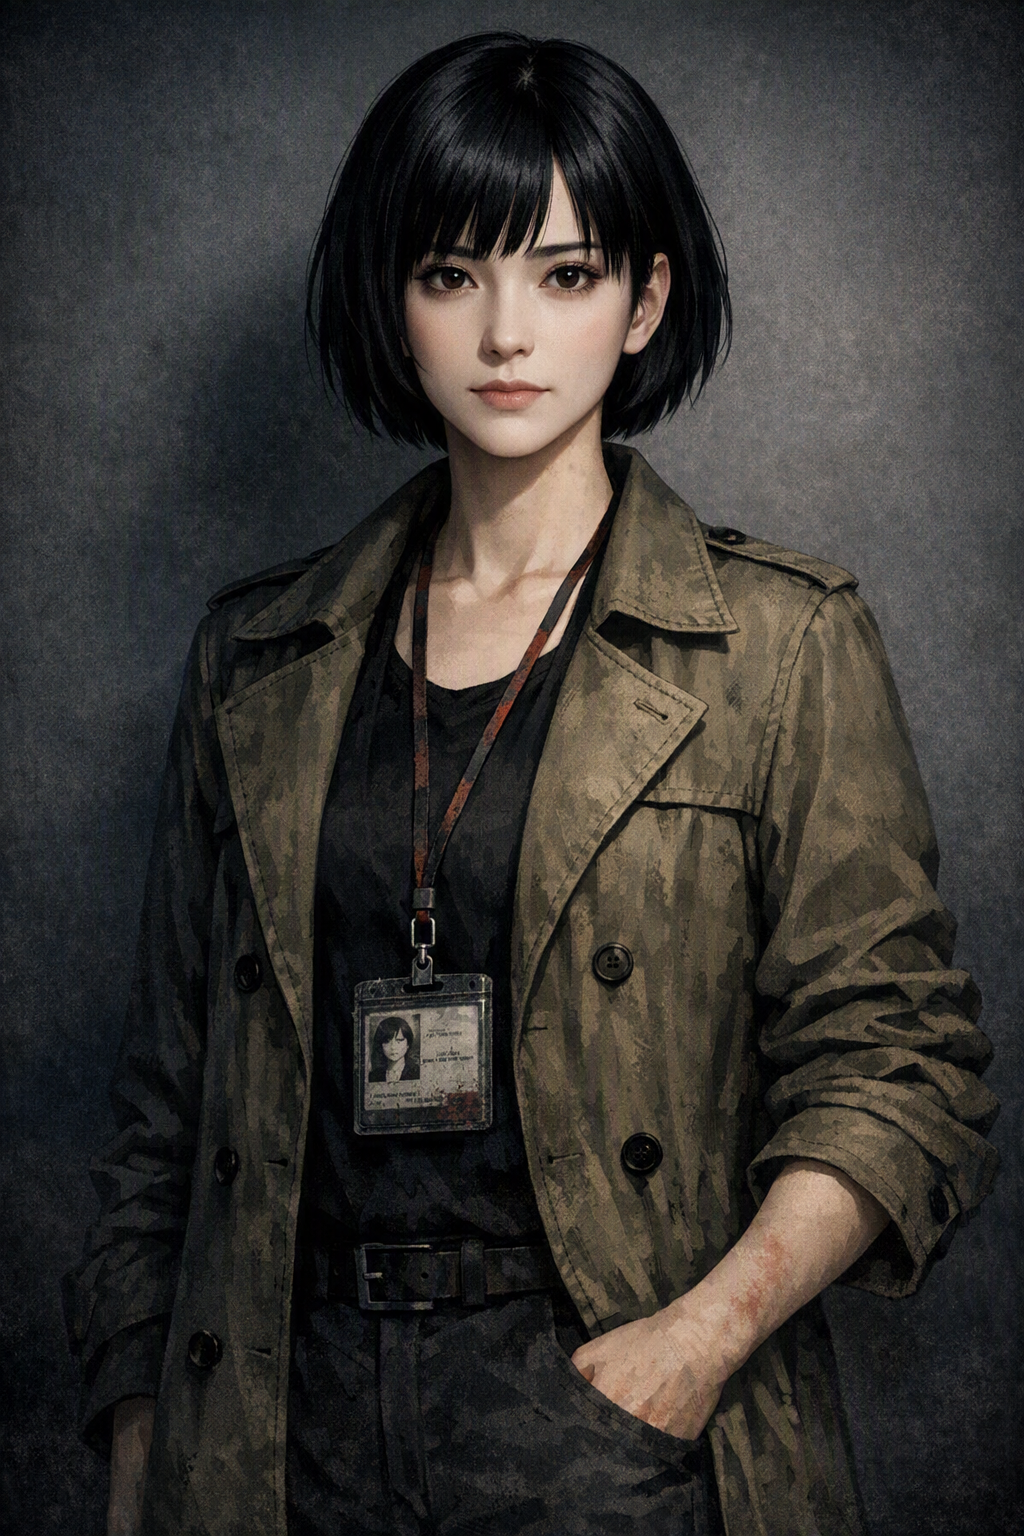
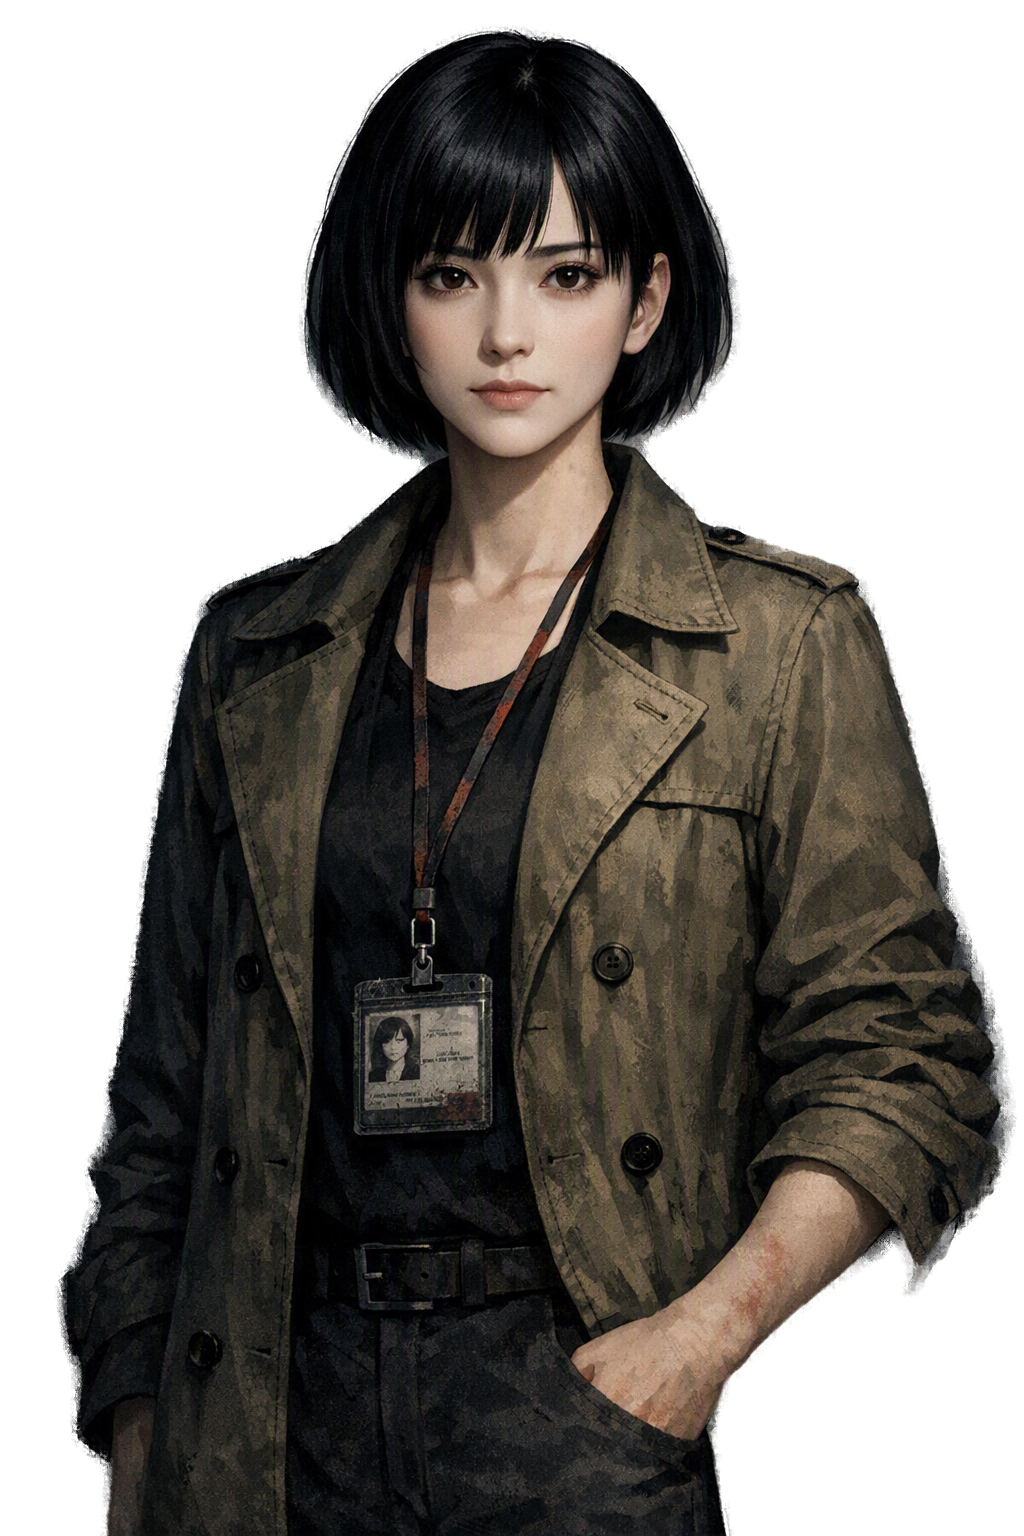
fix: CASE-002 캐릭터 투명배경 교체 및 R-07 흔적 단서 보강, OG 공유 이미지 교체
- CASE-002 캐릭터 스프라이트 10장 전부 투명 배경 버전으로 교체
  (배경에 사각 박스가 비치던 문제 해결)
- 3장 책상에 001 신문 스크랩 사본(newspaper_clipping_copy) 아이템 추가 —
  001 세이브 유무에 따라 다른 반응 대사, 약병과 나란히 놓여 001 흔적이
  한 곳에 모이는 구성
- R-11이 001을 직접 겪은 것처럼 말하는 대사 3곳을 "파일/기록에서 읽었다"는
  간접 화법으로 정정(001 사건을 실제로 경험한 사람은 R-07이지 R-11이 아님)
- 약병/신문 스크랩에 002 전용 신규 단서 대사 추가 및 관련 수사노트 문구 보강
  (재고 수량과 사라진 사번 개수의 상관관계, 병원 폐쇄 시기와 탑 가동 시기 일치)
- Story Archive 인덱스 페이지 OG 공유 메타 태그를 001 전용 문구에서
  시리즈 전체를 아우르는 문구/전용 썸네일로 교체

diff --git a/games/story-archive/cases/case002/scene-data.js b/games/story-archive/cases/case002/scene-data.js
@@ -19,12 +19,13 @@ window.CASE_DATA = {
     "broadcast_logs": { "image": "assets/items/broadcast-logs.png", "label": "방송 로그 사본" },
     "r03_journal": { "image": "assets/items/r03-journal-open.png", "label": "R-03의 개인 기록물" },
     "jamming_device": { "image": "assets/items/jamming-device.png", "label": "방해 장치" },
-    "pill_bottle": { "image": "assets/items/pill-bottle.png", "label": "라벨 없는 약병" }
+    "pill_bottle": { "image": "assets/items/pill-bottle.png", "label": "라벨 없는 약병" },
+    "newspaper_clipping_copy": { "image": "assets/items/newspaper-clipping-copy.png", "label": "신문 스크랩 사본" }
   },
 
   "notes": {
     "symbol_rubbing": {
-      "baseNote": "누군가 남긴 표식을 종이에 문질러 뜬 것. 001의 지하실에서 봤던 그 별 모양과 정확히 같다."
+      "baseNote": "누군가 남긴 표식을 종이에 문질러 뜬 것. 001 사건 기록에 남아있는 그 별 모양과 정확히 같다."
     },
     "broadcast_logs": {
       "baseNote": "정기 점검 기록 사본 4부. 셋은 같은 날짜, 하나만 삼 주 전 — 그리고 표현도 미묘하게 다르다."
@@ -40,9 +41,12 @@ window.CASE_DATA = {
       "updates": [
         {
           "condition": { "flag": "chapter3_entered_case002" },
-          "text": "라벨 없는 약병. 001에서도, 002에서도 나타났다. 우연이라기엔 너무 정확히 반복된다."
+          "text": "라벨 없는 약병. 001에서도, 002에서도 나타났다. R-03의 메모에 따르면 재고 수량이 사라진 사번 개수와 정확히 맞물려 줄어들고 있다 — 001의 '절대 재고 확인 금지' 경고문이 여기서 진짜 의미를 갖는다."
         }
       ]
+    },
+    "newspaper_clipping_copy": {
+      "baseNote": "빛바랜 신문 스크랩 사본. R-03이 여백에 날짜를 동그라미 쳐뒀다 — 병원이 문 닫은 시기와, 이 탑이 가동을 시작한 시기가 겹친다는 뜻."
     }
   },
 
@@ -63,7 +67,6 @@ window.CASE_DATA = {
         { "speaker": "관리자", "text": "새 임무입니다. CASE-001 종결 보고서, 열람 권한 드릴게요." },
         { "speaker": "내레이션", "text": "파일을 넘긴다. R-07. 실종, 수사 종결. 그리고 그 끝에 적힌 사번 하나." },
         { "speaker": "내레이션", "text": "R-03." },
-        { "character": "{gender}-neutral", "speaker": "조사관(나)", "text": "(혼잣말) ...내가 겪은 일도 아닌데, 왜 이렇게 익숙하지." },
         { "speaker": "관리자", "text": "신호 발신지 — 산속 버려진 중계탑입니다." },
         { "character": "{gender}-neutral", "speaker": "조사관(나)", "text": "(혼잣말) ...이번엔 처음부터 의심하고 시작하자." },
         { "speaker": "", "text": "[CASE-002: 기음 (거짓된 복음)]", "effect": "decode" }
@@ -78,7 +81,7 @@ window.CASE_DATA = {
       "lines": [
         { "speaker": "내레이션", "text": "산길을 오른다. 빗줄기가 거세다. 나무 사이로 낡은 철탑이 보인다." },
         { "speaker": "관리자", "text": "관리자입니다. 신호 확인. 목적지는 이 앞 중계탑입니다." },
-        { "character": "{gender}-neutral", "speaker": "조사관(나)", "text": "(혼잣말) ...목소리가 달라졌다. 아니, 같은 사람이 아닌 건가." },
+        { "character": "{gender}-neutral", "speaker": "조사관(나)", "text": "(혼잣말) ...파일에서 읽었던 인상이랑 다르다. 이 목소리, 같은 사람이 맞나." },
         { "speaker": "관리자", "text": "같은 역할을 맡고 있을 뿐입니다. 개인적인 질문은 나중에 하시죠." },
         { "character": "{gender}-neutral", "speaker": "조사관(나)", "text": "(혼잣말) ...'역할'이라. 그럼 나도 그런 건가." },
         { "speaker": "내레이션", "text": "외벽을 따라 걷다, 정문 대신 반쯤 뜯긴 환기구를 발견한다." }
@@ -143,7 +146,7 @@ window.CASE_DATA = {
           "itemImage": "assets/items/symbol-rubbing.png",
           "itemLabel": "낙인 탁본"
         },
-        { "character": "{gender}-neutral", "speaker": "조사관(나)", "text": "(혼잣말) ...이 표시, 001 지하실에서 봤던 그 별 모양이랑 정확히 같다." },
+        { "character": "{gender}-neutral", "speaker": "조사관(나)", "text": "(혼잣말) ...이 표시, 001 파일 사진에 있던 그 별 모양이랑 정확히 같다." },
         { "character": "{gender}-neutral", "speaker": "조사관(나)", "text": "(혼잣말) 그때도 우연이 아니라더니 — 여기까지 이어져 있었나." },
         { "speaker": "관리자", "text": "오래된 낙서예요. 안으로 들어가시죠." },
         { "character": "{gender}-neutral", "speaker": "조사관(나)", "text": "(혼잣말) ...1, 9, 3. 더하면 13이잖아." },
@@ -350,7 +353,7 @@ window.CASE_DATA = {
           "addItem": "pill_bottle"
         },
         {
-          "character": "{gender}-neutral", "speaker": "조사관(나)", "text": "(혼잣말) ...이 약, 001 병원 조사 때 봤던 그 라벨 없는 약병이다. 똑같은 성분이야.",
+          "character": "{gender}-neutral", "speaker": "조사관(나)", "text": "(혼잣말) ...이 약, 001 파일에 사진으로 남아있던 그 약병이랑 똑같이 생겼다.",
           "condition": { "hasCase001Save": true }
         },
         {
@@ -361,6 +364,30 @@ window.CASE_DATA = {
         { "speaker": "내레이션", "text": "약병 옆, 찢어진 신분증 조각. 사번 앞자리 \"03\"만 겨우 보인다." },
         { "character": "{gender}-neutral", "speaker": "조사관(나)", "text": "(혼잣말) ...R-07도 그랬다. 자기 사번을 뒤에 붙이는 버릇. 코드마다, 자물쇠마다." },
         { "character": "{gender}-neutral", "speaker": "조사관(나)", "text": "(혼잣말) ...R-03도 같은 버릇이었다면. 03, 그리고 사방에 널린 47." },
+        {
+          "speaker": "내레이션", "text": "약병 옆, 빛바랜 신문 스크랩 사본 한 장이 클립으로 고정되어 있다.",
+          "addItem": "newspaper_clipping_copy",
+          "itemImage": "assets/items/newspaper-clipping-copy.png",
+          "itemLabel": "신문 스크랩 사본"
+        },
+        {
+          "speaker": "내레이션", "text": "스크랩 여백에, R-03의 필체로 날짜 하나가 동그라미 쳐져 있다 — 이 중계탑이 가동을 시작한 날짜와 같다."
+        },
+        {
+          "character": "{gender}-neutral", "speaker": "조사관(나)",
+          "text": "(혼잣말) ...이거, 001에서 봤던 그 병원 이전 기사잖아. R-03도 이걸 갖고 있었다니.",
+          "condition": { "hasCase001Save": true }
+        },
+        {
+          "character": "{gender}-neutral", "speaker": "조사관(나)",
+          "text": "(혼잣말) ...병원 이전 기사? 사본까지 만들어서 모아뒀다는 건, R-03 전에도 이걸 조사하던 사람이 있었다는 뜻이다.",
+          "condition": { "hasCase001Save": false }
+        },
+        { "speaker": "관리자", "text": "오래된 자료예요. 지금이랑은 상관없습니다." },
+        {
+          "character": "{gender}-neutral", "speaker": "조사관(나)",
+          "text": "(혼잣말) ...R-03이 이걸 어디서 구했는지가 더 궁금한데. 파일 보관실이라도 뒤졌던 건가."
+        },
         { "speaker": "내레이션", "text": "책상 서랍에 작은 다이얼 자물쇠가 달려있다." }
       ],
       "next": "r03_drawer_puzzle"
@@ -398,6 +425,7 @@ window.CASE_DATA = {
       "bgm": "assets/bgm/hideout-quiet.mp3",
       "lines": [
         { "speaker": "R-03 [기록]", "text": "\"...47일째. 아무도 못 믿겠다.\"", "typingProfile": "decelerating" },
+        { "speaker": "R-03 [기록]", "text": "\"...재고 수량이 하나씩 준다. 그것도, 지금까지 사라진 사번 개수랑 정확히 같은 속도로.\"", "typingProfile": "decelerating" },
         { "speaker": "R-03 [기록]", "text": "\"...이 신호, 사람을 재우는 게 아니다. 뭔가를 심고 있다.\"", "typingProfile": "decelerating" },
         { "speaker": "R-03 [기록]", "text": "\"...전에도 이런 신호가 있었다는 얘길 들은 적 있다. 병원 쪽에서.\"", "typingProfile": "decelerating" },
         { "speaker": "R-03 [기록]", "text": "\"관리자한테 말했다간 끝이다. 혼자 해야 한다.\"", "typingProfile": "decelerating" },

diff --git a/games/story-archive/index.html b/games/story-archive/index.html
@@ -4,9 +4,9 @@
 <meta charset="UTF-8" />
 <meta name="viewport" content="width=device-width, initial-scale=1.0" />
 <title>Story Archive</title>
-<meta property="og:title" content="Story Archive — CASE-001" />
-<meta property="og:description" content="사라진 조사관 R-07. 무전 너머의 목소리를 어디까지 믿을 것인가?" />
-<meta property="og:image" content="https://swstudio-lab.github.io/games/story-archive/cases/case001/assets/items/broken-badge.png" />
+<meta property="og:title" content="Story Archive" />
+<meta property="og:description" content="오래된 기록보관소에 접속해, 사라진 이들의 흔적을 쫓습니다. CASE-001부터 시작하는 미스터리 조사 시리즈." />
+<meta property="og:image" content="https://swstudio-lab.github.io/games/story-archive/assets/og-thumbnail.png" />
 <meta property="og:type" content="website" />
 <meta name="twitter:card" content="summary_large_image" />
 <link rel="preconnect" href="https://fonts.googleapis.com" />
